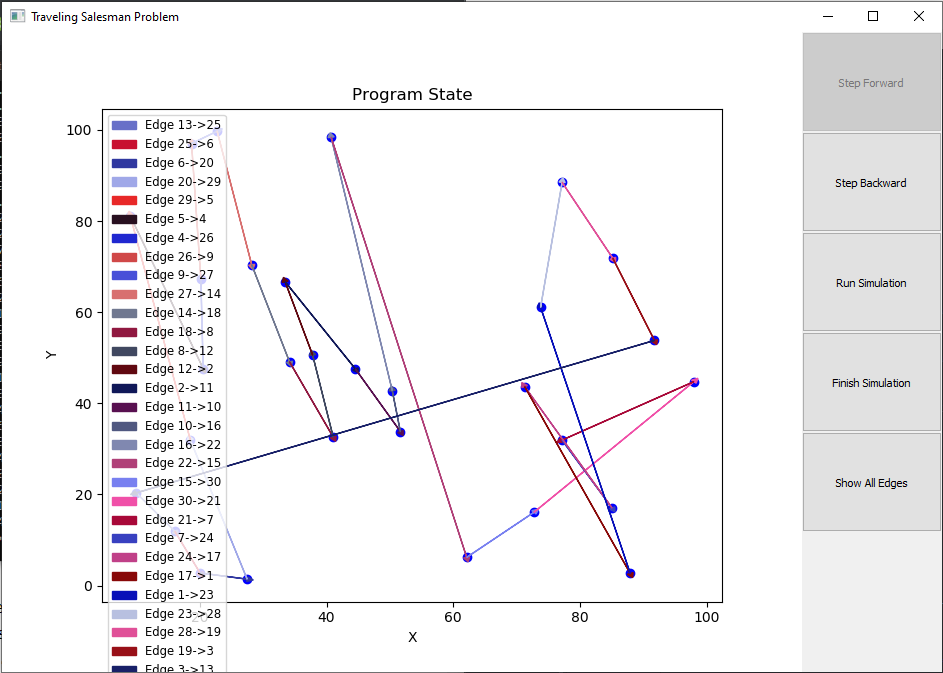
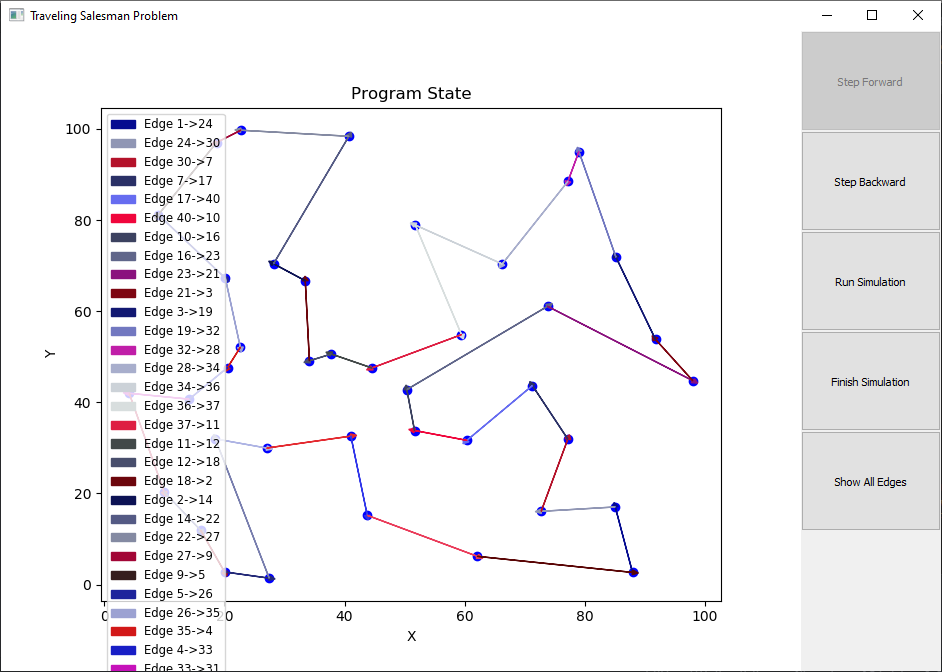
There seems to be a special case that causes an errorr.  It showed up in the 40 city file.  I choose a different starting path and got an amicable result.  I don't have time to snuff out the issue.

diff --git a/Project 3/src/Graph.py b/Project 3/src/Graph.py
@@ -155,7 +155,7 @@ class Route(object):
             if len(self.vertices) > 31:
                 arrow_plot = plt.arrow(vertex.x, vertex.y, adjacent_vertex.x-vertex.x, adjacent_vertex.y-vertex.y,
                                        head_width=1, head_length=1,
-                                       color='#000000'.format(Graph.color_quantization(vertex.vertex_id, len(self.vertices)),
+                                       color='#{}{}{}'.format(Graph.color_quantization(vertex.vertex_id, len(self.vertices)),
                                                               Graph.color_quantization(vertex.vertex_id % adjacent_vertex.vertex_id + 1, len(self.vertices)),
                                                               Graph.color_quantization(adjacent_vertex.vertex_id, len(self.vertices))),
                                        label=arrow_label)
@@ -388,7 +388,7 @@ class Graph(object):
                 if len(self.vertices) > 30:
                     arrow_plot = plt.arrow(vertex.x, vertex.y, adjacent_vertex.x-vertex.x, adjacent_vertex.y-vertex.y,
                                            head_width=1, head_length=1,
-                                           color='#000000'.format(Graph.color_quantization(vertex.vertex_id, len(self.vertices)),
+                                           color='#{}{}{}'.format(Graph.color_quantization(vertex.vertex_id, len(self.vertices)),
                                                                   str(hex(int(random.uniform(0.2, 1)*256)))[2:],
                                                                   Graph.color_quantization(adjacent_vertex.vertex_id, len(self.vertices))),
                                            label=arrow_label)
@@ -433,7 +433,7 @@ class Graph(object):
                                        self.vertices[route_order[vertex_index+1]-1].x - self.vertices[route_order[vertex_index]-1].x,
                                        self.vertices[route_order[vertex_index+1]-1].y - self.vertices[route_order[vertex_index]-1].y,
                                        head_width=1, head_length=1,
-                                       color='#000000'.format(Graph.color_quantization( self.vertices[route_order[vertex_index]-1].vertex_id, len(self.vertices)),
+                                       color='#{}{}{}'.format(Graph.color_quantization( self.vertices[route_order[vertex_index]-1].vertex_id, len(self.vertices)),
                                                               str(hex(int(random.uniform(0.2, 1)*256)))[2:],
                                                               Graph.color_quantization(self.vertices[route_order[vertex_index+1]-1].vertex_id, len(self.vertices))),
                                        label=arrow_label)
@@ -472,7 +472,7 @@ class Graph(object):
 
         color_value = hex(int(size_of_bins) * vertex_id)[2:]
 
-        if int(color_value, 16) < 10:
+        if len(color_value) == 1:
             return "0" + color_value
         else:
             return color_value

diff --git a/Project 3/src/TravelingSalesman.py b/Project 3/src/TravelingSalesman.py
@@ -46,6 +46,12 @@ class TravelingSalesman():
 
             return string
 
+        def complete(self):
+            while not self.done:
+                self.step_forward()
+
+            return self.route
+
         def step_forward(self):
             next_vertex, closest_item_next_to_vertex = self.choose_next_vertex()
             self.route.lasso(next_vertex, closest_item_next_to_vertex)
@@ -256,10 +262,10 @@ def try_all_starting_vertex_ids_with_algorithm(graph, algorithm):
 
 if __name__ == "__main__":
     # Retrieve command line arguments
-    if len(sys.argv) != 4 and len(sys.argv) != 3:
+    if len(sys.argv) != 4 and len(sys.argv) != 3 and len(sys.argv) != 5:
         print("Command Line Arguments should follow the format:")
         print("python TrainingSalesman.py [algorithm] [relative path to vertex_graph_file]"
-              " [relative path to adjacency_matrix_file]")
+              " [relative path to adjacency_matrix_file or none] [optional: starting_vertex_id]")
         print("\nImplemented algorithms include: brute_force, bfs, dfs, greedy")
     else:
         # retrieve solve_method
@@ -272,11 +278,20 @@ if __name__ == "__main__":
             # retrieve relative path to adjacency_matrix_file_path
             adjacency_matrix_file_path = sys.argv[3]
 
-            # Read the adjacency matrix
-            adjacency_matrix = FileHandler.read_adjacency_matrix(os.getcwd() + os.path.sep + adjacency_matrix_file_path)
+            if adjacency_matrix_file_path == 'none' or adjacency_matrix_file_path == 'NONE':
+                pass
+            else:
+                # Read the adjacency matrix
+                adjacency_matrix = FileHandler.read_adjacency_matrix(os.getcwd() + os.path.sep + adjacency_matrix_file_path)
+
+        starting_vertex_id = 1
+        if len(sys.argv) == 5:
+            starting_vertex_id = int(sys.argv[4])
 
         # Read the vertices from the vertex graph file.
         vertices = FileHandler.read_graph(os.getcwd() + os.path.sep + vertex_graph_file_path, adjacency_matrix)
+
+        assert len(vertices) >= starting_vertex_id > 0, "Starting_vertex_id must be between 0 and # of vertices [{}] in vertex_graph_file_path".format(len(vertices))
 
         if len(vertices) > 9 and algorithm == 'brute_force':
             reduce_ram_usage = True
@@ -337,7 +352,7 @@ if __name__ == "__main__":
         elif algorithm == "greedy":
             start = time.time()
 
-            result = try_all_starting_vertex_ids_with_algorithm(graph, TravelingSalesman.GreedyAlgorithm)
+            result = TravelingSalesman.GreedyAlgorithm(graph, starting_vertex_id).complete()
 
             end = time.time()
             print("greedy solution", str(result), result.recount_distance())

diff --git a/Project 3/src/runner.py b/Project 3/src/runner.py
@@ -15,4 +15,4 @@ def test_display(relative_display_path, relative_tsp_graph_path):
 
 if __name__ == "__main__":
 	test_display(os.path.sep + "Display.py",
-                ".." + os.path.sep + "docs" + os.path.sep + "Random30.tsp")
+                ".." + os.path.sep + "docs" + os.path.sep + "Random40.tsp")

diff --git a/Project 3/src/Display.py b/Project 3/src/Display.py
@@ -265,5 +265,5 @@ if __name__ == '__main__':
 
         # Start the GUI
         app = QApplication(sys.argv)
-        ex = TravelingSalesmanGUI(TravelingSalesman.GreedyAlgorithm(graph, 8))
+        ex = TravelingSalesmanGUI(TravelingSalesman.GreedyAlgorithm(graph, 1))
         sys.exit(app.exec_())
